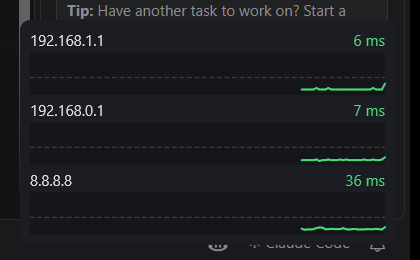
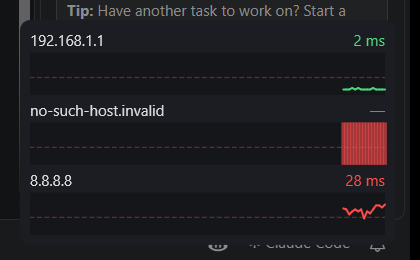
feat: settings window for hosts and thresholds

diff --git a/src/PingWidget/Settings/SettingsWindow.xaml b/src/PingWidget/Settings/SettingsWindow.xaml
@@ -1,0 +1,35 @@
+<Window x:Class="PingWidget.Settings.SettingsWindow"
+        xmlns="http://schemas.microsoft.com/winfx/2006/xaml/presentation"
+        xmlns:x="http://schemas.microsoft.com/winfx/2006/xaml"
+        Title="PingWidget — настройки"
+        Width="420" Height="380" MinWidth="360" MinHeight="260"
+        WindowStartupLocation="CenterScreen"
+        FontFamily="Segoe UI" FontSize="13">
+    <DockPanel Margin="12">
+        <TextBlock DockPanel.Dock="Top" Margin="0,0,0,8" TextWrapping="Wrap"
+                   Text="Адреса для пинга и порог в миллисекундах: выше порога линия становится красной." />
+
+        <StackPanel DockPanel.Dock="Bottom" Orientation="Horizontal" HorizontalAlignment="Right" Margin="0,8,0,0">
+            <Button Content="Сохранить" Width="90" Margin="0,0,8,0" IsDefault="True" Click="OnSave" />
+            <Button Content="Отмена" Width="90" IsCancel="True" />
+        </StackPanel>
+
+        <TextBlock x:Name="Errors" DockPanel.Dock="Bottom" Foreground="#d32f2f" TextWrapping="Wrap"
+                   Margin="0,8,0,0" Visibility="Collapsed" />
+
+        <StackPanel DockPanel.Dock="Bottom" Orientation="Horizontal" Margin="0,8,0,0">
+            <Button Content="Добавить" Width="90" Margin="0,0,8,0" Click="OnAdd" />
+            <Button Content="Удалить" Width="90" Click="OnRemove" />
+        </StackPanel>
+
+        <DataGrid x:Name="Grid" AutoGenerateColumns="False" CanUserAddRows="False" CanUserDeleteRows="False"
+                  CanUserResizeRows="False" HeadersVisibility="Column" SelectionMode="Single">
+            <DataGrid.Columns>
+                <DataGridTextColumn Header="Адрес" Width="*"
+                                    Binding="{Binding Address, UpdateSourceTrigger=PropertyChanged}" />
+                <DataGridTextColumn Header="Порог, мс" Width="100"
+                                    Binding="{Binding Threshold, UpdateSourceTrigger=PropertyChanged}" />
+            </DataGrid.Columns>
+        </DataGrid>
+    </DockPanel>
+</Window>

diff --git a/src/PingWidget/Settings/SettingsWindow.xaml.cs b/src/PingWidget/Settings/SettingsWindow.xaml.cs
@@ -1,0 +1,75 @@
+using System.Collections.ObjectModel;
+using System.Windows;
+using System.Windows.Controls;
+using PingWidget.Core;
+
+namespace PingWidget.Settings;
+
+public partial class SettingsWindow : Window
+{
+    /// <summary>Editable row; threshold kept as text so bad input gets our own error message.</summary>
+    public sealed class EditableHost
+    {
+        public string Address { get; set; } = "";
+        public string Threshold { get; set; } = "";
+    }
+
+    private readonly ObservableCollection<EditableHost> _rows;
+
+    public SettingsWindow(IReadOnlyList<HostConfig> current)
+    {
+        InitializeComponent();
+        _rows = new ObservableCollection<EditableHost>(
+            current.Select(h => new EditableHost { Address = h.Address, Threshold = h.ThresholdMs.ToString() }));
+        Grid.ItemsSource = _rows;
+    }
+
+    /// <summary>The saved host list, or null if the window was cancelled.</summary>
+    public IReadOnlyList<HostConfig>? Result { get; private set; }
+
+    private void OnAdd(object sender, RoutedEventArgs e)
+    {
+        var row = new EditableHost { Threshold = "50" };
+        _rows.Add(row);
+        Grid.SelectedItem = row;
+        Grid.ScrollIntoView(row);
+        Grid.CurrentCell = new DataGridCellInfo(row, Grid.Columns[0]);
+        Grid.Focus();
+        Grid.BeginEdit();
+    }
+
+    private void OnRemove(object sender, RoutedEventArgs e)
+    {
+        Grid.CancelEdit();
+        if (Grid.SelectedItem is EditableHost row) _rows.Remove(row);
+    }
+
+    internal ObservableCollection<EditableHost> Rows => _rows;
+
+    internal string ErrorText => Errors.Text;
+
+    private void OnSave(object sender, RoutedEventArgs e)
+    {
+        Grid.CommitEdit(DataGridEditingUnit.Row, exitEditingMode: true);
+        if (TryAccept()) DialogResult = true;
+    }
+
+    /// <summary>Validates the rows; on success sets <see cref="Result"/>, otherwise shows the errors.</summary>
+    internal bool TryAccept()
+    {
+        var hosts = _rows
+            .Select(r => new HostConfig((r.Address ?? "").Trim(), int.TryParse(r.Threshold?.Trim(), out var t) ? t : 0))
+            .ToList();
+
+        var errors = HostListValidator.Validate(hosts);
+        if (errors.Count > 0)
+        {
+            Errors.Text = string.Join(Environment.NewLine, errors);
+            Errors.Visibility = Visibility.Visible;
+            return false;
+        }
+
+        Result = hosts;
+        return true;
+    }
+}

diff --git a/tests/PingWidget.Tests/SettingsWindowTests.cs b/tests/PingWidget.Tests/SettingsWindowTests.cs
@@ -1,0 +1,51 @@
+using System.Runtime.ExceptionServices;
+using PingWidget.Core;
+using PingWidget.Settings;
+
+namespace PingWidget.Tests;
+
+public class SettingsWindowTests
+{
+    private static void RunSta(Action action)
+    {
+        ExceptionDispatchInfo? error = null;
+        var t = new Thread(() =>
+        {
+            try { action(); }
+            catch (Exception e) { error = ExceptionDispatchInfo.Capture(e); }
+        });
+        t.SetApartmentState(ApartmentState.STA);
+        t.Start();
+        t.Join();
+        error?.Throw();
+    }
+
+    [Fact]
+    public void Accept_TrimsAndParses() => RunSta(() =>
+    {
+        var w = new SettingsWindow(AppSettings.DefaultHosts());
+        w.Rows.Add(new SettingsWindow.EditableHost { Address = " 1.1.1.1 ", Threshold = " 30 " });
+        Assert.True(w.TryAccept());
+        Assert.Equal(new HostConfig("1.1.1.1", 30), w.Result![^1]);
+        Assert.Equal(4, w.Result.Count);
+    });
+
+    [Fact]
+    public void Accept_NonNumericThreshold_ShowsErrorAndNoResult() => RunSta(() =>
+    {
+        var w = new SettingsWindow([new HostConfig("8.8.8.8", 100)]);
+        w.Rows[0].Threshold = "abc";
+        Assert.False(w.TryAccept());
+        Assert.Null(w.Result);
+        Assert.Equal("Порог должен быть от 1 до 10000 мс", w.ErrorText);
+    });
+
+    [Fact]
+    public void Accept_AllRemoved_ShowsError() => RunSta(() =>
+    {
+        var w = new SettingsWindow([new HostConfig("8.8.8.8", 100)]);
+        w.Rows.Clear();
+        Assert.False(w.TryAccept());
+        Assert.Equal("Добавьте хотя бы один адрес", w.ErrorText);
+    });
+}

diff --git a/src/PingWidget/Settings/HostListValidator.cs b/src/PingWidget/Settings/HostListValidator.cs
@@ -1,0 +1,41 @@
+using PingWidget.Core;
+
+namespace PingWidget.Settings;
+
+public static class HostListValidator
+{
+    public const int MinThreshold = 1;
+    public const int MaxThreshold = 10000;
+
+    /// <summary>Returns user-facing error messages; an empty list means the hosts are valid.</summary>
+    public static IReadOnlyList<string> Validate(IReadOnlyList<HostConfig> hosts)
+    {
+        var errors = new List<string>();
+        if (hosts.Count == 0)
+        {
+            errors.Add("Добавьте хотя бы один адрес");
+            return errors;
+        }
+
+        var seen = new Dictionary<string, string>(StringComparer.OrdinalIgnoreCase);
+        foreach (var h in hosts)
+        {
+            var address = h.Address?.Trim() ?? "";
+            if (address.Length == 0)
+                AddOnce(errors, "Адрес не может быть пустым");
+            else if (seen.TryGetValue(address, out var first))
+                AddOnce(errors, $"Адрес {first} указан дважды");
+            else
+                seen[address] = address;
+
+            if (h.ThresholdMs is < MinThreshold or > MaxThreshold)
+                AddOnce(errors, $"Порог должен быть от {MinThreshold} до {MaxThreshold} мс");
+        }
+        return errors;
+    }
+
+    private static void AddOnce(List<string> errors, string message)
+    {
+        if (!errors.Contains(message)) errors.Add(message);
+    }
+}

diff --git a/tests/PingWidget.Tests/HostListValidatorTests.cs b/tests/PingWidget.Tests/HostListValidatorTests.cs
@@ -1,0 +1,35 @@
+using PingWidget.Core;
+using PingWidget.Settings;
+
+namespace PingWidget.Tests;
+
+public class HostListValidatorTests
+{
+    [Fact]
+    public void Defaults_Valid() => Assert.Empty(HostListValidator.Validate(AppSettings.DefaultHosts()));
+
+    [Fact]
+    public void BlankAddress() =>
+        Assert.Equal(["Адрес не может быть пустым"], HostListValidator.Validate([new HostConfig("  ", 10)]));
+
+    [Theory]
+    [InlineData(0)]
+    [InlineData(-5)]
+    [InlineData(10001)]
+    public void ThresholdOutOfRange(int t) =>
+        Assert.Equal(["Порог должен быть от 1 до 10000 мс"], HostListValidator.Validate([new HostConfig("8.8.8.8", t)]));
+
+    [Theory]
+    [InlineData(1)]
+    [InlineData(10000)]
+    public void ThresholdBoundsValid(int t) => Assert.Empty(HostListValidator.Validate([new HostConfig("8.8.8.8", t)]));
+
+    [Fact]
+    public void DuplicateAddress_CaseInsensitiveTrimmed() =>
+        Assert.Equal(["Адрес router.lan указан дважды"],
+            HostListValidator.Validate([new HostConfig("router.lan", 10), new HostConfig(" ROUTER.lan ", 20)]));
+
+    [Fact]
+    public void EmptyList() =>
+        Assert.Equal(["Добавьте хотя бы один адрес"], HostListValidator.Validate([]));
+}

diff --git a/src/PingWidget/App.xaml.cs b/src/PingWidget/App.xaml.cs
@@ -1,6 +1,7 @@
 using System.IO;
 using System.Windows;
 using PingWidget.Core;
+using PingWidget.Settings;
 using PingWidget.Tray;
 using PingWidget.Widget;
 
@@ -13,6 +14,7 @@ public partial class App : Application
     private PingMonitor? _monitor;
     private WidgetWindow? _widget;
     private TrayIconController? _tray;
+    private SettingsWindow? _settingsWindow;
 
     protected override void OnStartup(StartupEventArgs e)
     {
@@ -87,7 +89,27 @@ public partial class App : Application
 
     private void OpenSettings()
     {
-        // Implemented in Task 8.
+        if (_settingsWindow is not null)
+        {
+            _settingsWindow.Activate();
+            return;
+        }
+
+        _settingsWindow = new SettingsWindow(_settings.Hosts);
+        try
+        {
+            if (_settingsWindow.ShowDialog() == true && _settingsWindow.Result is { } hosts)
+            {
+                _settings.Hosts = hosts.ToList();
+                SaveSettings();
+                _monitor!.SetHosts(hosts);
+                _widget?.RefreshRows();
+            }
+        }
+        finally
+        {
+            _settingsWindow = null;
+        }
     }
 
     private void OnMonitorUpdated(object? sender, EventArgs e)
